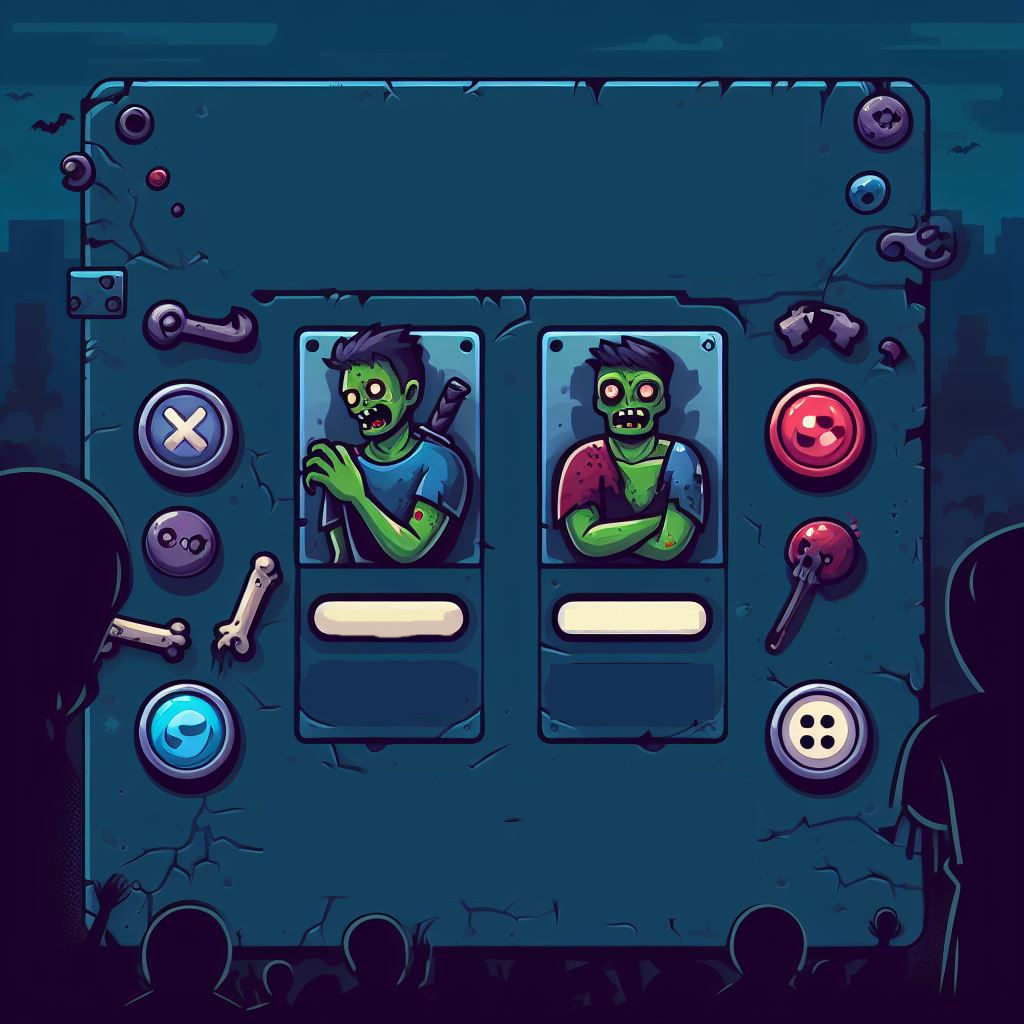
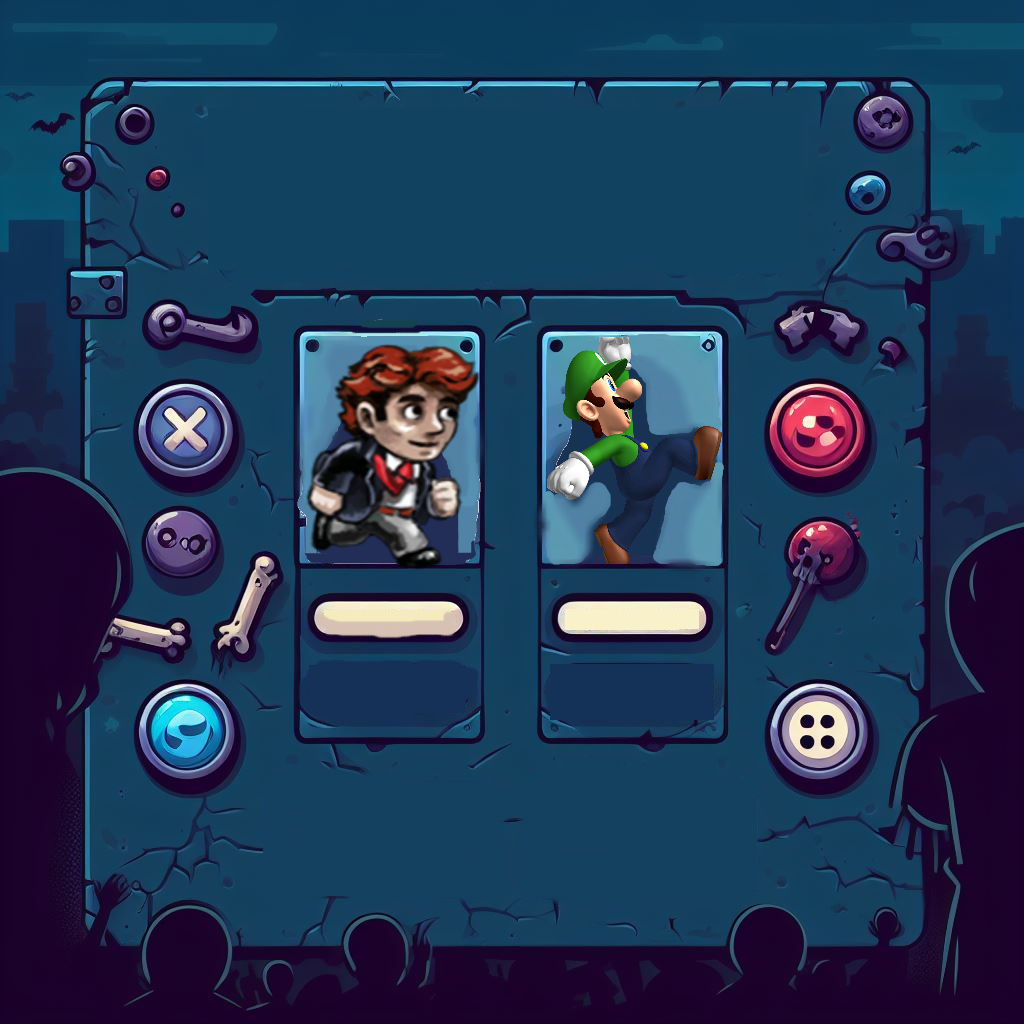
imagens organizadas

Changed region(s): [[0.5, 0.3125, 0.7188, 0.5625], [0.2812, 0.3125, 0.4688, 0.5625]]

diff --git a/src/menu_jogadores.cpp b/src/menu_jogadores.cpp
@@ -28,7 +28,7 @@ namespace Estados
         void Menu_Jogadores::inicializa_valores()
         {
             selecionado = deselecionado = jogador2 = false;
-            imagem->loadFromFile("Design/imagens/menu2jogadoers(2).png");
+            imagem->loadFromFile("Design/imagens/menu2jogadores.png");
             fonte->loadFromFile("Design/fonte/sangue_escorrendo.ttf");
 
             opcoes = {"Players","Um jogador", "Dois Jogadores", "Sair"};
